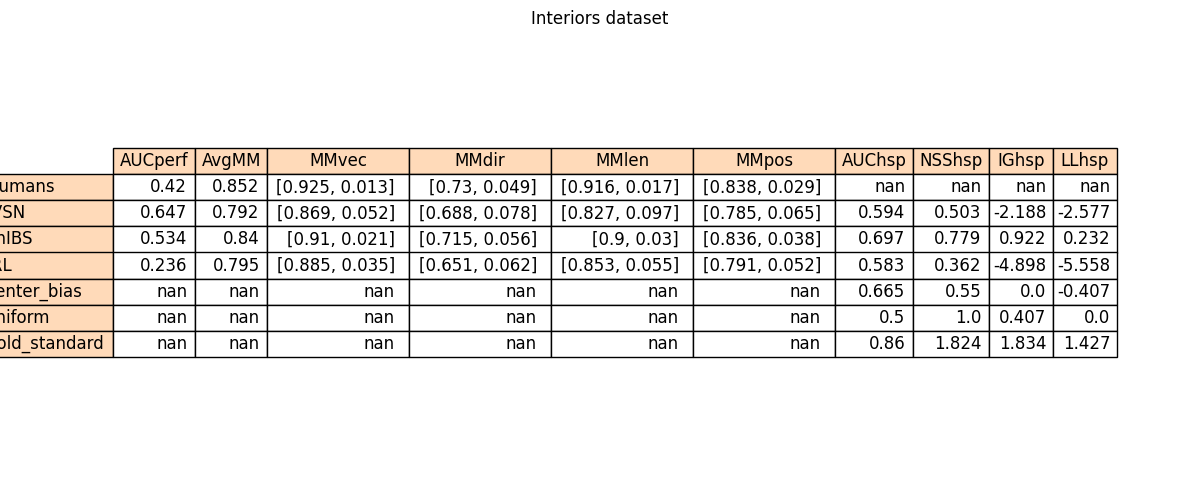
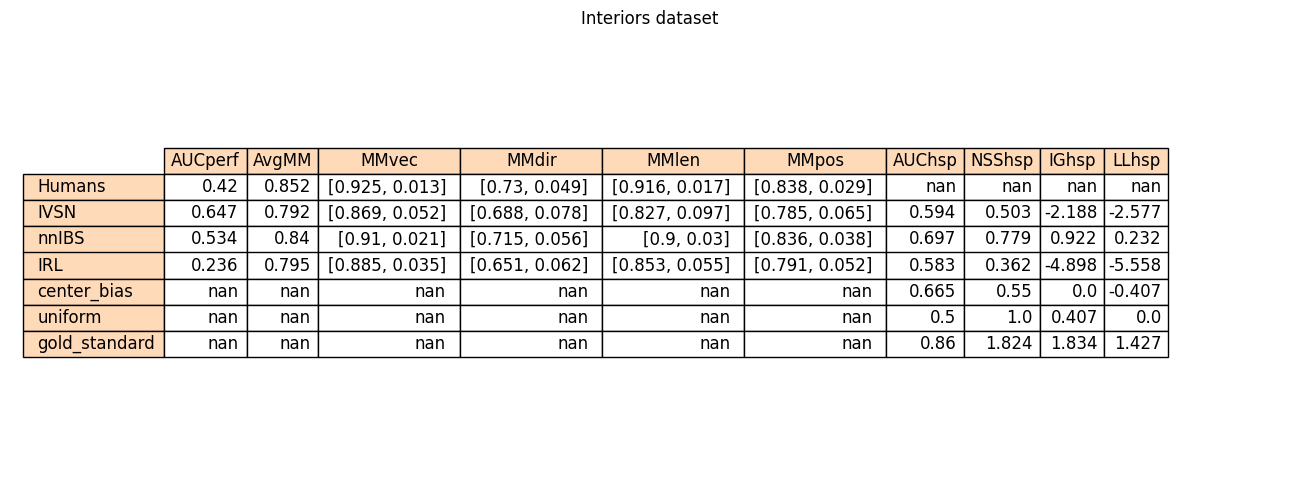
(Metrics) Better fit for tables

Changed region(s): [[0.0, 0.27, 0.9558, 0.72], [0.4317, 0.03, 0.555, 0.06]]

diff --git a/Metrics/scripts/utils.py b/Metrics/scripts/utils.py
@@ -24,7 +24,7 @@ def plot_table(df, title, save_path, filename):
 
     fig.tight_layout()
     fig.suptitle(title)
-    fig.set_size_inches(12, 5)
+    fig.set_size_inches(13, 5)
     plt.savefig(path.join(save_path, filename))
     plt.show()
 
